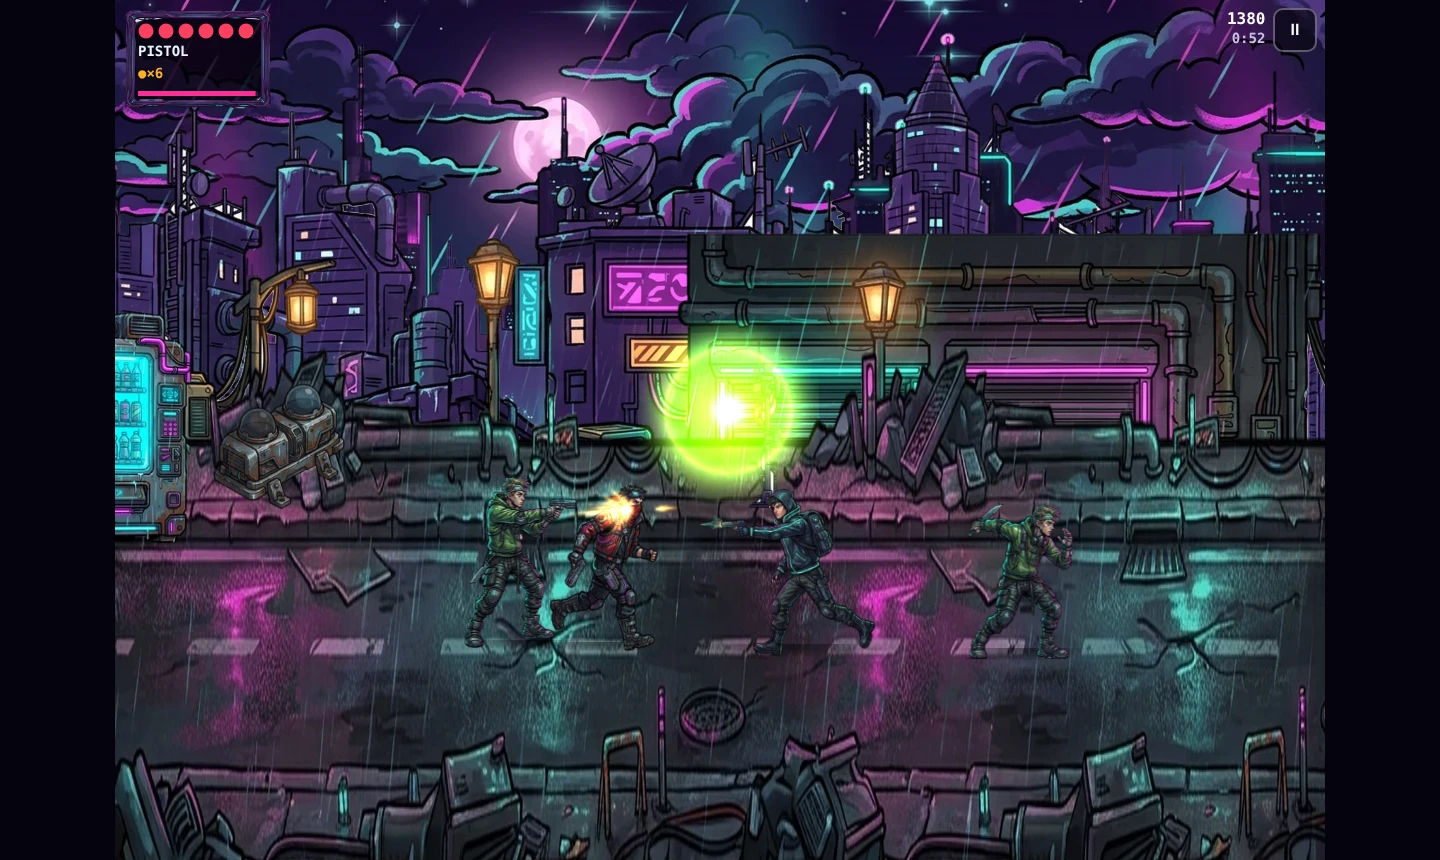
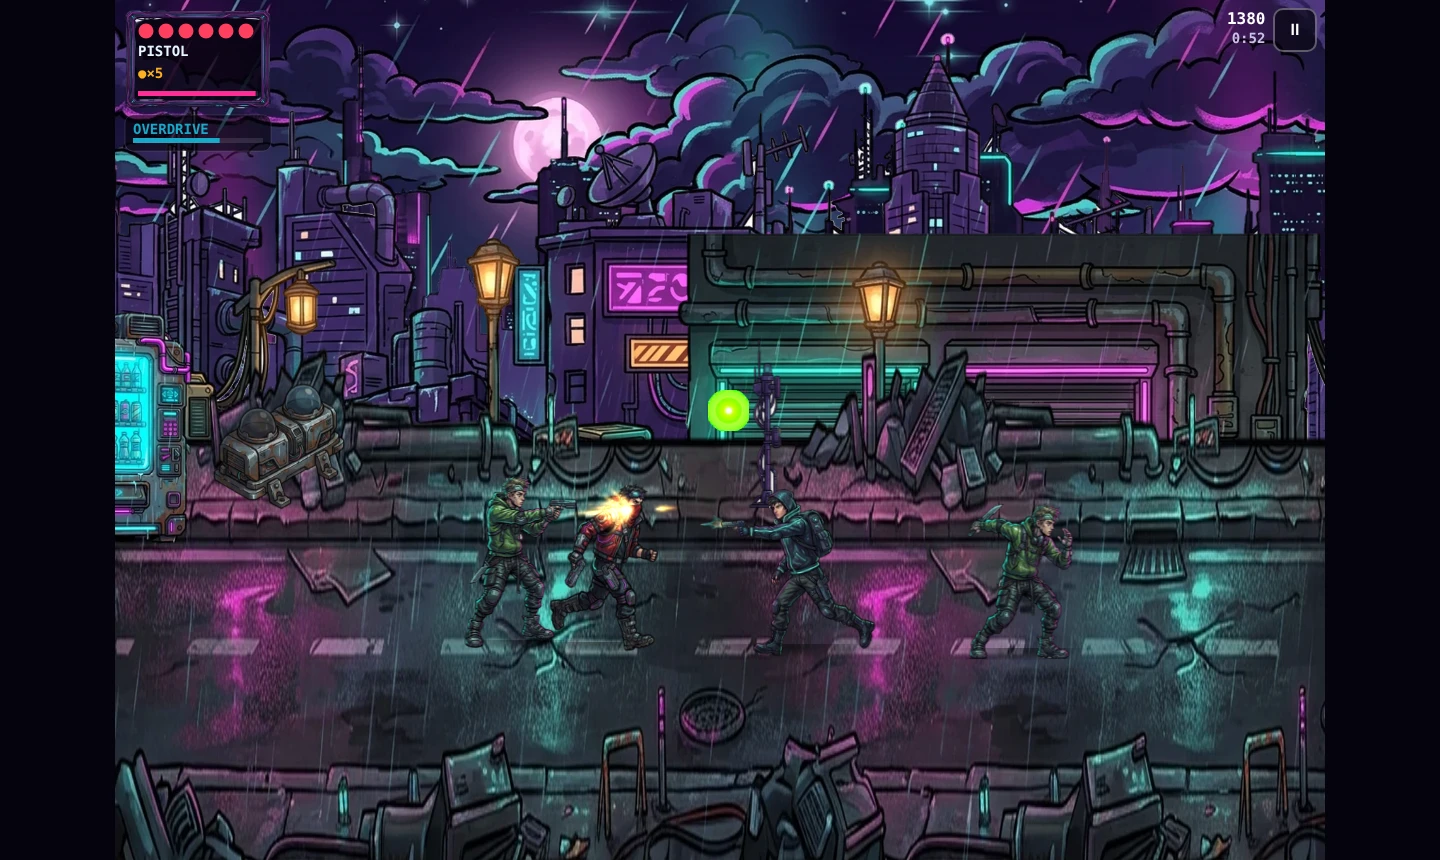
Street purefoot: flash-sized keyed enemy orb, overdrive and guard meters as an edge-HUD plate

Changed region(s): [[0.4375, 0.3628, 0.5938, 0.6047], [0.0625, 0.1209, 0.1875, 0.1814]]

diff --git a/games-src/nightrun/parts/street/purefoot.js b/games-src/nightrun/parts/street/purefoot.js
@@ -4,7 +4,7 @@
 /* ---------- PUREFOOT (W217, owner 24 Oct 2026: "the owner's art is good, our code overlays made it ugly"). The outermost F.look.draw: with RET.purefoot on, none of the
    overlay wrappers run (street3 lamp pools / grade / wet mirror, streetblend, streetguard meter and OPEN text, streetcombo HITS panel, streetfeel OVERDRIVE panel).
    Drawn: streetlook's painted backdrop and prop sheets, street2 prop pictures, pickup pictures, actors through drawWho (sheets, FA.shadow soft contact shadow), owner shot /
-   muzzle / grenade / fx pictures, enemy bullets as fx-bullet-enemy, then streetlook's HUD without the hint line, the BEHIND caption and the progress bar.
+   muzzle / grenade / fx pictures, enemy bullets as a keyed fx-bullet-enemy core (normal blend, pistol-flash size), then streetlook's HUD without the hint line, the BEHIND caption and the progress bar, and the overdrive / guard meters under the hearts panel.
    Not drawn: code shapes (wind-up discs and boxes, shield ring, dash box, shadow ellipses, rings, slashes, squares, checkpoint flags), play-field text, the occlusion fade.
    Telegraphs are poses: a foe winding up shows its melee sheet, a gunner calling a shot its shoot sheet. Gameplay is untouched (the sim never draws). ---------- */
 (function(){
@@ -12,6 +12,20 @@ if(!window.FOOT||!FOOT._in||!FOOT.look||!FOOT.look._p)return;
 const F=FOOT,IN=F._in,SL=F.look,X=SL._p,FL=470,old=SL.draw;
 const pic=(c,id,x,y,w,a,al)=>{if(window.AH&&AH.ftDraw(c,id,x,y,w,a,al))return true;const o=typeof ART!=='undefined'&&ART.img&&ART.img(id)&&ART.sp(id,w);if(!o)return false;   // owner fx pictures are painted on black: added with 'lighter'
   c.save();c.globalCompositeOperation='lighter';c.globalAlpha=al==null?1:Math.max(0,Math.min(1,al));c.translate(x,y);if(a)c.rotate(a);c.drawImage(o.c,-o.w/2,-o.h/2,o.w,o.h);c.restore();return true;};
+/* foe shots: the owner's orb is painted on black (no alpha). One keyed copy: alpha from brightness, the faint outer glow cut, cropped to the core, drawn with the normal blend */
+const KEY={};function keyed(id){if(id in KEY)return KEY[id];const im=typeof ART!=='undefined'&&ART.img&&ART.img(id);if(!im||!im.width)return null;
+  const w=im.width,h=im.height,cv=document.createElement('canvas');cv.width=w;cv.height=h;const g=cv.getContext('2d');g.drawImage(im,0,0);const D=g.getImageData(0,0,w,h),d=D.data;let x0=w,y0=h,x1=0,y1=0;
+  for(let i=0;i<d.length;i+=4){const m=Math.max(d[i],d[i+1],d[i+2]),a=m<70?0:Math.min(255,(m-70)*255/120);if(a>0){for(let j=0;j<3;j++)d[i+j]=Math.min(255,d[i+j]*255/m);const q=i/4,x=q%w,y=(q-x)/w;if(x<x0)x0=x;if(x>x1)x1=x;if(y<y0)y0=y;if(y>y1)y1=y;}d[i+3]=a;}
+  if(x1<x0)return KEY[id]=null;g.putImageData(D,0,0);const o=document.createElement('canvas');o.width=x1-x0+1;o.height=y1-y0+1;o.getContext('2d').drawImage(cv,-x0,-y0);return KEY[id]=o;}
+/* edge HUD tells under the hearts panel (no play-field drawing): overdrive meter / READY, guard meter while it is used or refilling */
+function tells(c,L,S,u,fs){const b=L.hud&&L.hud.hud&&L.hud.hud[0];if(!b)return;const rows=[],OD=F.OD,g=S.gd;
+  if(RET.overdrive&&OD&&OD.v>0){const full=OD.v>=OD.max;rows.push([full?'OVERDRIVE READY: BOMB':'OVERDRIVE',OD.v/OD.max,full?(Math.floor(S.time*4)%2?'#ffffff':'#19e3ff'):'#19a8c8']);}
+  if(g&&(g.on||g.m<1))rows.push([g.cd>0?'GUARD BROKEN':'GUARD',g.m,g.m<.3?'#ff4060':'#5ad1ff']);if(!rows.length)return;
+  const t0=SL.t0,pd=8*u,rh=26*u,x=b.x,y=t0+b.y+b.h+6*u,w=b.w,h=2*pd+rows.length*rh-6*u;
+  c.save();c.fillStyle='rgba(5,3,12,.62)';X.slRR(c,x,y,w,h,8*u);c.fill();c.strokeStyle='rgba(255,255,255,.12)';c.lineWidth=u;c.stroke();
+  c.textAlign='left';c.textBaseline='top';c.font='bold '+fs(12)+'px monospace';rows.forEach(([t,v,col],i)=>{const ry=y+pd+i*rh;c.fillStyle=col;c.fillText(t,x+pd,ry,w-2*pd);
+    c.fillStyle='#ffffff1c';c.fillRect(x+pd,ry+15*u,w-2*pd,5*u);c.fillStyle=col;c.fillRect(x+pd,ry+15*u,(w-2*pd)*Math.max(0,Math.min(1,v)),5*u);});c.restore();
+  L.hud.hud.push({x,y:y-t0,w,h});SL.hudB=Math.max(SL.hudB||0,y-t0+h+8*u);}
 function pure(c){const L=IN.L(),S=F.S;if(!L||!S)return false;X.slFrame(L);
   const K=SL.k,t0=SL.t0,dpr=L.dpr||1,sc=L.sc*dpr,vw=L.vw,exl=L.exl||0,exr=L.exr||0,P=S.P,u=1/L.sc,at=X.at;
   c.imageSmoothingEnabled=true;c.imageSmoothingQuality='high';
@@ -39,8 +53,8 @@ function pure(c){const L=IN.L(),S=F.S;if(!L||!S)return false;X.slFrame(L);
     if(e.patch)for(let x=e.patch.x0+12;x<e.patch.x1;x+=24){at(c,x,FL-10,K);pic(c,'fx-ft-flame',x,FL-10,30,-Math.PI/2,.8);c.restore();}}SL.z=null;
   for(const b of S.pb){SL.z=b.z;at(c,b.x,b.y,K);window.AH&&AH.ftBul(c,b);c.restore();}
   for(const g of S.bombsL){SL.z=g.z;at(c,g.x,g.y,K);pic(c,'fx-ft-grenade',g.x,g.y,22,S.time*7);c.restore();}
-  for(const b of S.eb){SL.z=b.z;at(c,b.x,b.y,K);if(!pic(c,'fx-bullet-enemy',b.x,b.y,Math.max(16,b.r*2.4),Math.atan2(b.vy||0,b.vx||1))){c.fillStyle=b.c;c.beginPath();c.arc(b.x,b.y,b.r,0,6.283);c.fill();}c.restore();}   // no picture yet: the plain shot
+  for(const b of S.eb){SL.z=b.z;at(c,b.x,b.y,K);const ko=keyed('fx-bullet-enemy');if(ko){const w=14,h=w*ko.height/ko.width;c.drawImage(ko,b.x-w/2,b.y-h/2,w,h);}else{c.fillStyle=b.c;c.beginPath();c.arc(b.x,b.y,b.r,0,6.283);c.fill();}c.restore();}   // no picture yet: the plain shot
   SL.z=null;for(const f of S.fx){if(!window.AH)break;if(f.pic){if(SL.band)SL.z=f.z==null?null:f.z;at(c,f.x,f.y,K);AH.ftFx(c,f);c.restore();}else if(f.arc)AH.ftArc(c,Object.assign({},f,{arc:f.arc.map(([x,y])=>[x,SL.my(y)])}));}SL.z=null;
-  c.restore();const fs=n=>Math.max(14,n)*u;SL.hudB=0;X.slHud(c,L,S,vw,u,fs);return true;}
+  c.restore();const fs=n=>Math.max(14,n)*u;SL.hudB=0;X.slHud(c,L,S,vw,u,fs);tells(c,L,S,u,fs);return true;}
 SL.draw=function(c){return RET.purefoot?pure(c):old.apply(this,arguments);};
 })();

diff --git a/games-src/nightrun/parts/street/streetlook.js b/games-src/nightrun/parts/street/streetlook.js
@@ -198,5 +198,5 @@ function slHud(c,L,S,vw,u,fs){const P=S.P,t0=SL.t0,hb=[],box=(x,y,w,h)=>hb.push(
     else if(S.st.hook&&S.st.hook.hud&&!RET.purefoot){const dy=by+10*u-(VH-14*u);c.save();c.translate(0,dy);try{S.st.hook.hud(c,vw,u,(x,y,w,h)=>box(x,y+dy,w,h),fs,S);}catch(x){}c.restore();SL.hudB+=24*u;}}
   else if(S.st.hook&&S.st.hook.hud)try{S.st.hook.hud(c,vw,u,box,fs,S);}catch(x){}
   L.hud={hud:hb,hint,vw};IN.ghost();}
-SL._p={slFrame,slPainted,slBackdrop,at,pkPic,slPic,slHud};   // purefoot.js (W217) reuses the frame, the painted backdrop, the depth placement and the HUD
+SL._p={slFrame,slPainted,slBackdrop,at,pkPic,slPic,slHud,slRR};   // purefoot.js (W217) reuses the frame, the painted backdrop, the depth placement and the HUD
 })();

diff --git a/games-src/nightrun/review-shots/W217/README.md b/games-src/nightrun/review-shots/W217/README.md
@@ -29,7 +29,7 @@ Line numbers are on this branch (`parts/street/...` unless named).
 | Front-shield bar (blue rect) | streetlook.js:143 | off |
 | Shield ring (code arc), dash afterimage box | streetlook.js:149-150 | off |
 | Muzzle fallback white disc | streetlook.js:152 | off (owner muzzle picture `fx-ft-*-muzzle` only) |
-| Enemy shots: dark ring + flat disc (READ.footEb) or disc + white core | streetlook.js:157, render/readable.js:63 | owner `fx-bullet-enemy` orb, 'lighter', width 2.4 x hit radius (flat disc only while the picture loads) |
+| Enemy shots: dark ring + flat disc (READ.footEb) or disc + white core | streetlook.js:157, render/readable.js:63 | owner `fx-bullet-enemy` orb as a keyed copy (alpha from brightness, faint outer glow cut, cropped to the core), normal blend, 14 units wide (about the pistol muzzle flash; round 2, orchestrator: the first version drew it ~150 px) |
 | Player shots without a picture: rects / discs | streetlook.js:155 | owner `fx-ft-*` bullet pictures only |
 | Effects: slash arcs, rings (e.g. CALLING HELP ring, streethard.js:50), particle squares | streetlook.js:160-163 | off; owner fx pictures (`f.pic`) and the arc picture stay |
 | Floating text in the field ("+120", "+180 BEAT", "CALLING HELP") | streetlook.js:165-166, streethard.js:46 | off |
@@ -39,9 +39,9 @@ Line numbers are on this branch (`parts/street/...` unless named).
 | Sign pole + flat prop box with white stroke | streetlook.js:124-126 | off; street2 prop pictures; a prop with no picture keeps a plain box (it blocks shots) |
 | Placeholder backdrop tiles with labels | streetlook.js:66-73 | not reached while the painted layers are loaded (same as before) |
 | Stage hook drawings: danger lanes (dashed), pound marks (ellipse), flamer tongue (gradient), fire patch (rect), heal beam (line) | footstage.js:179-183 | lanes / marks / beam off (the attack pose is the tell); flamer tongue and fire patch as owner `fx-ft-flame` pictures |
-| Guard arc, guard meter + "GUARD" label, "OPEN" over staggered foes, full-screen white parry flash | streetguard.js:71-76 | off (guard and parry still work; the button and sounds are unchanged) |
+| Guard arc, guard meter + "GUARD" label, "OPEN" over staggered foes, full-screen white parry flash | streetguard.js:71-76 | off in the field; the guard meter (GUARD / GUARD BROKEN) is an edge-HUD row under the hearts panel while guarding or refilling |
 | Combo panel "N HITS / in a row, keep hitting" | streetcombo.js:24-32 | off |
-| OVERDRIVE panel + caption | streetfeel.js:53-60 | off (the mechanic is unchanged; the bomb button still fires it) |
+| OVERDRIVE panel + caption | streetfeel.js:53-60 | edge-HUD row under the hearts panel (same plate style): meter, then "OVERDRIVE READY: BOMB" blinking when full |
 | Hint line in the field ("GUARD: hold to block...") | streetlook.js:190 | off |
 | BEHIND caption ("foe arriving from the left") | streetlook.js:192 | only the arrow at the left edge |
 | Section progress bar under the HUD | streetlook.js:198 (stage hook hud) | off |
@@ -58,11 +58,11 @@ Scores 0-10 per row, from the shots in this folder.
 
 | Test | off | on | What still fails with purefoot on, and the fix |
 |---|---|---|---|
-| 1 Owner-art (code marks in the field) | 2 | 8 | Only edge HUD left. The HUD panel is code text on the owner's plate; numbers are fine, the PISTOL / bomb lines could be owner icons |
+| 1 Owner-art (code marks in the field) | 2 | 8 | Only edge HUD left (hearts panel + the overdrive / guard plate under it). The HUD panel is code text on the owner's plate; numbers are fine, the PISTOL / bomb lines could be owner icons |
 | 2 Grayscale (actors vs street by value) | 4 | 6 | The olive-green foes and the dark hooded Kai sit at the same value as the dark street; the benchmark outlines every actor. Art fix (not code): a 2-3 px dark outline + lighter top-light on the actor sheets |
 | 3 Silhouette | 6 | 7 | Rusher / gunner / Kai read apart by shape (knife, pistol arm, hood). Two rushers side by side merge |
 | 4 Find-the-player (phone) | 4 | 6 | Kai is the only hooded figure, but is no brighter than the foes. A clean rim/engine-like accent in the Kai sheet would do it (art) |
-| 5 Bullets | 4 | 7 | Gunner shot = one big lime owner orb, a colour nothing else uses. Player pistol shots are small; muzzle flash carries them |
+| 5 Bullets | 4 | 7 | Gunner shot = a small lime owner orb (flash-sized), a colour nothing else uses. Player pistol shots are small; muzzle flash carries them. Its hit radius (26) is now larger than the picture |
 | 6 Clutter (non-art marks) | 1 (8 marks: hint, progress bar, 2 OVERDRIVE lines, HITS panel, CALLING HELP, +180 BEAT, pink squares) | 9 (0) | - |
 | 7 Benchmark side by side | 2 | 6 | Still amateur next to the benchmark: actors are thin and small against a very detailed painting (benchmark actors are chunkier with stronger outlines), and the foreground rubble strip takes ~20% of the phone field |
 
